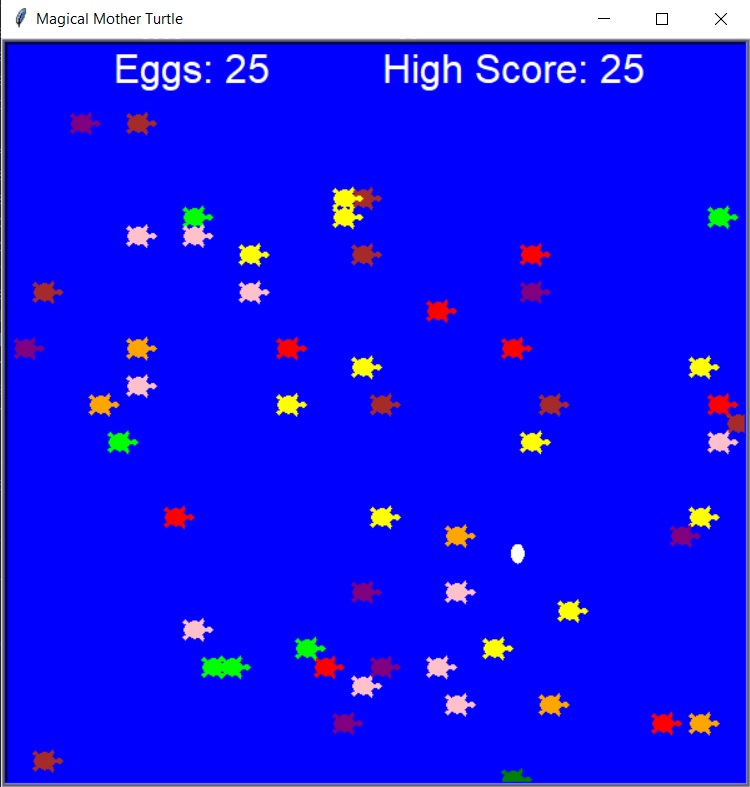
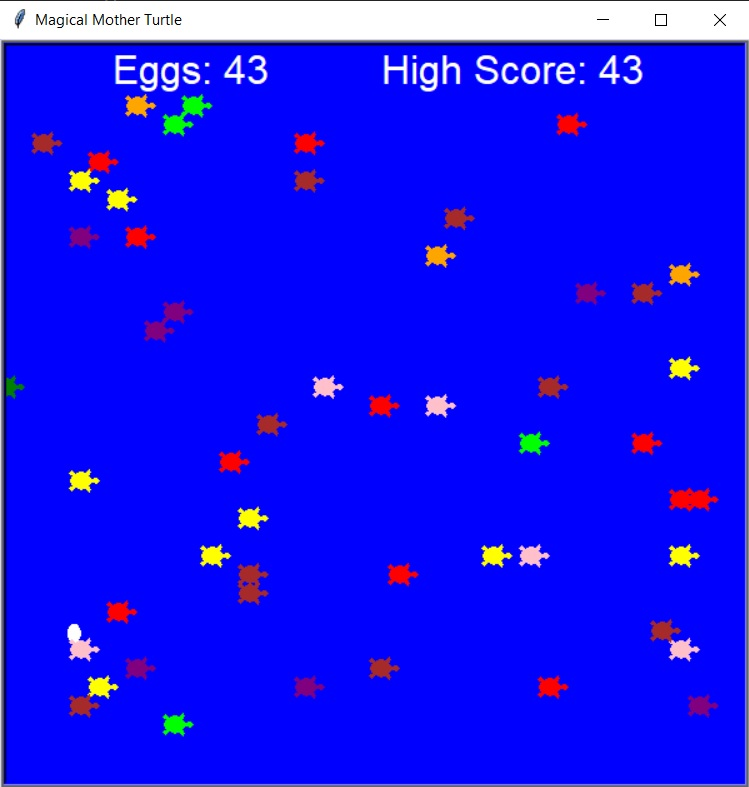
Updated HighScore.jpg and changed scoring to always show high score. Cleaned up code too.

diff --git a/MagicalMotherTurtleProject.py b/MagicalMotherTurtleProject.py
@@ -3,9 +3,6 @@ import turtle
 import time
 import random
 
-#Global Variables (Sorry, this one needed to be global)
-babies = []
-
 #These next "setups" needed to be without functions so I could use them in all other functions
 #Screen Setup
 screen = turtle.Screen()
@@ -69,13 +66,9 @@ def go_left():
     if mom.direction != "right":
         mom.direction = "left"          
   
-#Collision, Score and Hatching  
-def eggs_to_babies(color):
-    #Determine Scores
-    score_game = len(babies)
-    high_score_game = 0
-    if score_game > high_score_game:
-        high_score_game = score_game + 1
+#Collision and Hatching  
+def eggs_to_babies(babies):
+    color = ['red', 'pink', 'lime', 'yellow', 'orange', 'purple', 'brown']
     #Collision from Egg
     if mom.distance(egg) < 15:
         x = random.randint(-280, 280)
@@ -89,9 +82,6 @@ def eggs_to_babies(color):
         baby.penup()
         #Adding Baby to Babies List
         babies.append(baby)
-        #Update Score
-        pen.clear()
-        pen.write("Eggs: " + str(len(babies)) + "                               " , align="center", font=("Arial", 24, "normal"))
         #Babies "Hatching", leaving baby turtles on screen
         for index in range(len(babies)-1, 0, -1):
             x = babies[index-1].xcor()
@@ -103,11 +93,12 @@ def eggs_to_babies(color):
             babies[0].goto(x, y)
  
 #Determine Level to increase speed of Mom Turtle            
-def level(length):
-    if length <= 10:
-        return len(babies) / 100
+def level(babies):
+    delay = 0.13
+    if len(babies) <= 10:
+        return delay - (len(babies) / 100)
     else:
-        return 10 / 100
+        return delay - (10 / 100)
 
 
 #Movement Config Attaching to Keys
@@ -121,29 +112,31 @@ def key_config():
 #Defining Main Gameframe
 def main():
     #Determining High Score and Play Again
-    color_list = ['red', 'pink', 'lime', 'yellow', 'orange', 'purple', 'brown']
-    delay = 0.13
+    babies = []
     high_score = 0
     play_again = 'Y'
     #Game Loop 1 - Initalizing
     while play_again != 'N':
         game_over = False
         mom.direction = "stop"
+        #Reset Score while keeping High Score
         pen.clear()
-        pen.write("Eggs: 0                                ", align="center", font=("Arial", 24, "normal"))
+        pen.write("Eggs: 0          High Score: " + str(high_score), align="center", font=("Arial", 24, "normal"))
         #Game Loop 2 - Playing
         while game_over != True:
             #Determine Current Score and updating High Score
             score = len(babies)
             if score > high_score:
                 high_score = score
+            #Update Score
+            pen.clear()
+            pen.write("Eggs: "+ str(score) +"          High Score: " + str(high_score), align="center", font=("Arial", 24, "normal"))
             #Run Game and Functions
             key_config()
             screen.update()
             move()
-            eggs_to_babies(color_list)
-            total_time = delay - (level(len(babies)))
-            time.sleep(total_time)
+            eggs_to_babies(babies)
+            time.sleep(level(babies))    
             #Set Boundries and Determine "Game Over"
             if mom.xcor() > 295 or mom.xcor() < -300 or mom.ycor() > 295 or mom.ycor() < -295:
                 time.sleep(2)
@@ -153,8 +146,6 @@ def main():
         #Game Over Statement
         if game_over == True:
             mom.goto(0,100)
-            pen.clear()
-            pen.write("Eggs: "+ str(score) +"          High Score: " + str(high_score), align="center", font=("Arial", 24, "normal"))
             score = 0
             babies.clear()
             play_again = input('Press any key and then enter to play again, type \'N\' to quit\n')
